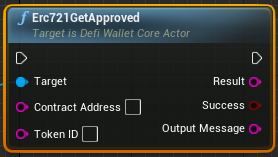
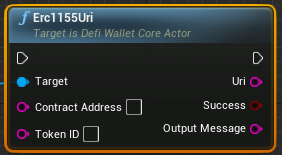
GitBook: [#26] Add images and update inputs for ERC1155 functions

Changed region(s): [[0.0, 0.0258, 1.0, 1.0], [0.0576, 0.6194, 0.518, 0.7484], [0.0576, 0.0, 0.0863, 0.0258]]

diff --git a/cronos-play/getting-started_unreal/quick-start/erc1155.md b/cronos-play/getting-started_unreal/quick-start/erc1155.md
@@ -8,6 +8,8 @@ All ERC1155 functions are members of **DefiWalletCoreActor**. The Target should 
 
 Get erc-1155 balance
 
+<figure><img src="../../../.gitbook/assets/image (6).png" alt=""><figcaption></figcaption></figure>
+
 * `Contract Address`: erc1155 contract address
 * `Account Address`: account address to fetch balance
 * `Token ID`: toiken id to fetch balance
@@ -19,10 +21,12 @@ Get erc-1155 balance
 
 Get erc-1155 balance of batch
 
+<figure><img src="../../../.gitbook/assets/image.png" alt=""><figcaption></figcaption></figure>
+
 * `Contract Address`: erc1155 contract address
 * `Account Address`es account addresses to fetch balance
 * `Token IDs`: toiken ids to fetch balance
-* `Balance`ofbatch: balances
+* `Balanceofbatch`: balances
 * `Success`: whether succeed or not
 * `Output message`: error message, "" if succeed
 
@@ -32,7 +36,9 @@ Get erc-1155 balance of batch
 
 Get erc-1155 uri
 
-* `Contract Address`: erc 1155 contract address
+<figure><img src="../../../.gitbook/assets/image (3).png" alt=""><figcaption></figcaption></figure>
+
+* `Contract Address`: erc1155 contract address
 * `Token ID`: token ID
 * `Uri`: get uri
 * `Success`: whether succeed or not
@@ -42,9 +48,11 @@ Get erc-1155 uri
 
 Get erc-1155 IsApprovedForAll
 
-* `Contract Address`: erc721 contract address
-* `Erc1155owner`: owner address
-* `Erc1155approvedaddress`: approved address
+<figure><img src="../../../.gitbook/assets/image (7).png" alt=""><figcaption></figcaption></figure>
+
+* `Contract Address`: erc1155 contract address
+* `Erc 1155owner`: owner address
+* `Erc 1155approvedaddress`: approved address
 * `Result`: is approved for all
 * `Success`: whether succeed or not
 * `Output message`: error message, "" if succeed
@@ -55,39 +63,41 @@ Get erc-1155 IsApprovedForAll
 
 erc1155 Moves `amount` tokens from `from_address` to `to_address` using the allowance mechanism.
 
-* `Contract Address`: erc20 contract
+<figure><img src="../../../.gitbook/assets/image (16).png" alt=""><figcaption></figcaption></figure>
+
+* `Contract Address`: erc1155 contract
 * `Walletindex`: wallet index which starts from 0
 * `From Address`: from address to move
 * `To Address`: to address
-* `Token`id: token id
+* `Tokenid`: token id
 * `Amount`: amount
 * `Additionaldata`: additional data
-* `Result`: receipt
-* `Success`: whether succeed or not
-* `Output message`: error message, "" if succeed
+* `Out`: Erc1155SafeTransferFrom callback
 
 ### Erc1155SafeBatchTransferFrom
 
 Batched version of safeTransferFrom.
 
-* `Contract Address`: erc20 contract
+<figure><img src="../../../.gitbook/assets/image (12).png" alt=""><figcaption></figcaption></figure>
+
+* `Contract Address`: erc1155 contract
 * `Walletindex`: wallet index which starts from 0
 * `From Address`: from address to move
 * `To Address`: to address
-* `Token`id:s token ids
-* `Amount`:s amounts
+* `Tokenids`: token ids
+* `Amounts`: amounts
 * `Additionaldata`: additional data
-* `Result`: receipt
-* `Success`: whether succeed or not
-* `Output message`: error message, "" if succeed
+* `Out`: Erc1155SafeBatchTransferFrom callback
 
 ### Erc1155Approve
 
 erc1155 Allows `approved_address` to withdraw from your account multiple times, up to the `amount` amount.
 
-* `Contract Address`: erc20 contract
+<figure><img src="../../../.gitbook/assets/image (9).png" alt=""><figcaption></figcaption></figure>
+
+* `Contract Address`: erc1155 contract
 * `Walletindex`: wallet index which starts from 0
 * `Approved Address`: address to approve
 * `Approved`: approved or not
-* `Result`: receipt
+* `Out`: Erc1155Approve callback
 

diff --git a/cronos-play/getting-started_unreal/quick-start/erc721.md b/cronos-play/getting-started_unreal/quick-start/erc721.md
@@ -56,7 +56,7 @@ Get erc-721 uri
 
 Get erc-721 Approved
 
-<figure><img src="../../../.gitbook/assets/image (3).png" alt=""><figcaption></figcaption></figure>
+<figure><img src="../../../.gitbook/assets/image (3) (2).png" alt=""><figcaption></figcaption></figure>
 
 * `Contract Address`: erc721 contract address
 * `Token ID`: token id
@@ -81,7 +81,7 @@ Get erc-721 IsApprovedForAll
 
 Get erc-721 owner
 
-<figure><img src="../../../.gitbook/assets/image (9).png" alt=""><figcaption></figcaption></figure>
+<figure><img src="../../../.gitbook/assets/image (9) (3).png" alt=""><figcaption></figcaption></figure>
 
 * `Contract Address`: erc 721 contract address
 * `Token ID`: token id
@@ -104,7 +104,7 @@ Get erc-721 total suppy
 
 Returns a token ID at a given index of all the tokens stored by the contract. Use along with totalSupply to enumerate all tokens.
 
-<figure><img src="../../../.gitbook/assets/image (10).png" alt=""><figcaption></figcaption></figure>
+<figure><img src="../../../.gitbook/assets/image (10) (3).png" alt=""><figcaption></figcaption></figure>
 
 * `Contract Address`: erc 721 contract address
 * `Erc 721index`: which index
@@ -144,7 +144,7 @@ erc721 Moves `amount` tokens from `from_address` to `to_address` using the allow
 
 Safely transfers `token_id` token from `from_address` to `to_address`.
 
-<figure><img src="../../../.gitbook/assets/image (5).png" alt=""><figcaption></figcaption></figure>
+<figure><img src="../../../.gitbook/assets/image (5) (3).png" alt=""><figcaption></figcaption></figure>
 
 * `Contract Address`: erc20 contract
 * `Walletindex`: wallet index which starts from 0
@@ -170,7 +170,7 @@ Safely transfers `token_id` token from `from_address` to `to_address` with `addi
 
 erc721 Allows `approved_address` to withdraw from your account multiple times, up to the `amount` amount.
 
-<figure><img src="../../../.gitbook/assets/image (2).png" alt=""><figcaption></figcaption></figure>
+<figure><img src="../../../.gitbook/assets/image (2) (5).png" alt=""><figcaption></figcaption></figure>
 
 * `Contract Address`: erc20 contract
 * `Walletindex`: wallet index which starts from 0

diff --git a/cronos-play/getting-started_unreal/quick-start/erc20.md b/cronos-play/getting-started_unreal/quick-start/erc20.md
@@ -31,7 +31,7 @@ All ERC20 functions are members of **DefiWalletCoreActor**. The Target should be
 
 Get erc-20 balance
 
-<figure><img src="../../../.gitbook/assets/image (6).png" alt=""><figcaption></figcaption></figure>
+<figure><img src="../../../.gitbook/assets/image (6) (2).png" alt=""><figcaption></figcaption></figure>
 
 * `Contract Address`: erc20 contract address
 * `Account Address`: account address to fetch balance
@@ -45,7 +45,7 @@ Get erc-20 balance
 
 Get erc-20 name
 
-<figure><img src="../../../.gitbook/assets/image (5) (3).png" alt=""><figcaption></figcaption></figure>
+<figure><img src="../../../.gitbook/assets/image (5) (3) (1).png" alt=""><figcaption></figcaption></figure>
 
 * `Contract Address`: erc20 contract address
 * `Name`: get name
@@ -67,7 +67,7 @@ Get erc-20 symbol
 
 Get erc-20 decimals
 
-<figure><img src="../../../.gitbook/assets/image.png" alt=""><figcaption></figcaption></figure>
+<figure><img src="../../../.gitbook/assets/image (10).png" alt=""><figcaption></figcaption></figure>
 
 * `Contract Address`: erc20 contract address
 * `Decimals`: get decimals
@@ -103,7 +103,7 @@ erc20 Moves `amount` tokens from the caller’s account to `to_address`.
 
 erc20 Moves `amount` tokens from `from_address` to `to_address` using the allowance mechanism.
 
-<figure><img src="../../../.gitbook/assets/image (3) (2).png" alt=""><figcaption></figcaption></figure>
+<figure><img src="../../../.gitbook/assets/image (3) (2) (1).png" alt=""><figcaption></figcaption></figure>
 
 * `Contract Address`: erc20 contract
 * `Walletindex`: wallet index which starts from 0
@@ -128,7 +128,7 @@ erc20 Allows `approved_address` to withdraw from your account multiple times, up
 
 Returns the amount of tokens in existence
 
-<figure><img src="../../../.gitbook/assets/image (7).png" alt=""><figcaption></figcaption></figure>
+<figure><img src="../../../.gitbook/assets/image (7) (2).png" alt=""><figcaption></figcaption></figure>
 
 * `Contract Address`: erc20 contract
 * `Erc 20owner`: erc20 owner&#x20;

diff --git a/cronos-play/getting-started_unreal/quick-start/wallet.md b/cronos-play/getting-started_unreal/quick-start/wallet.md
@@ -94,7 +94,7 @@ Sign eth amount
 
 Send eth amount
 
-<figure><img src="../../../.gitbook/assets/image (12).png" alt=""><figcaption></figcaption></figure>
+<figure><img src="../../../.gitbook/assets/image (12) (2).png" alt=""><figcaption></figcaption></figure>
 
 * `Wallet Index`: wallet index which starts from 0
 * `Fromaddress`: sender address
@@ -110,7 +110,7 @@ Send eth amount
 
 Sign eth login
 
-<figure><img src="../../../.gitbook/assets/image (16).png" alt=""><figcaption></figcaption></figure>
+<figure><img src="../../../.gitbook/assets/image (16) (2).png" alt=""><figcaption></figcaption></figure>
 
 * `Wallet Index`: wallet index which starts from 0
 * `Document`: document to sign
